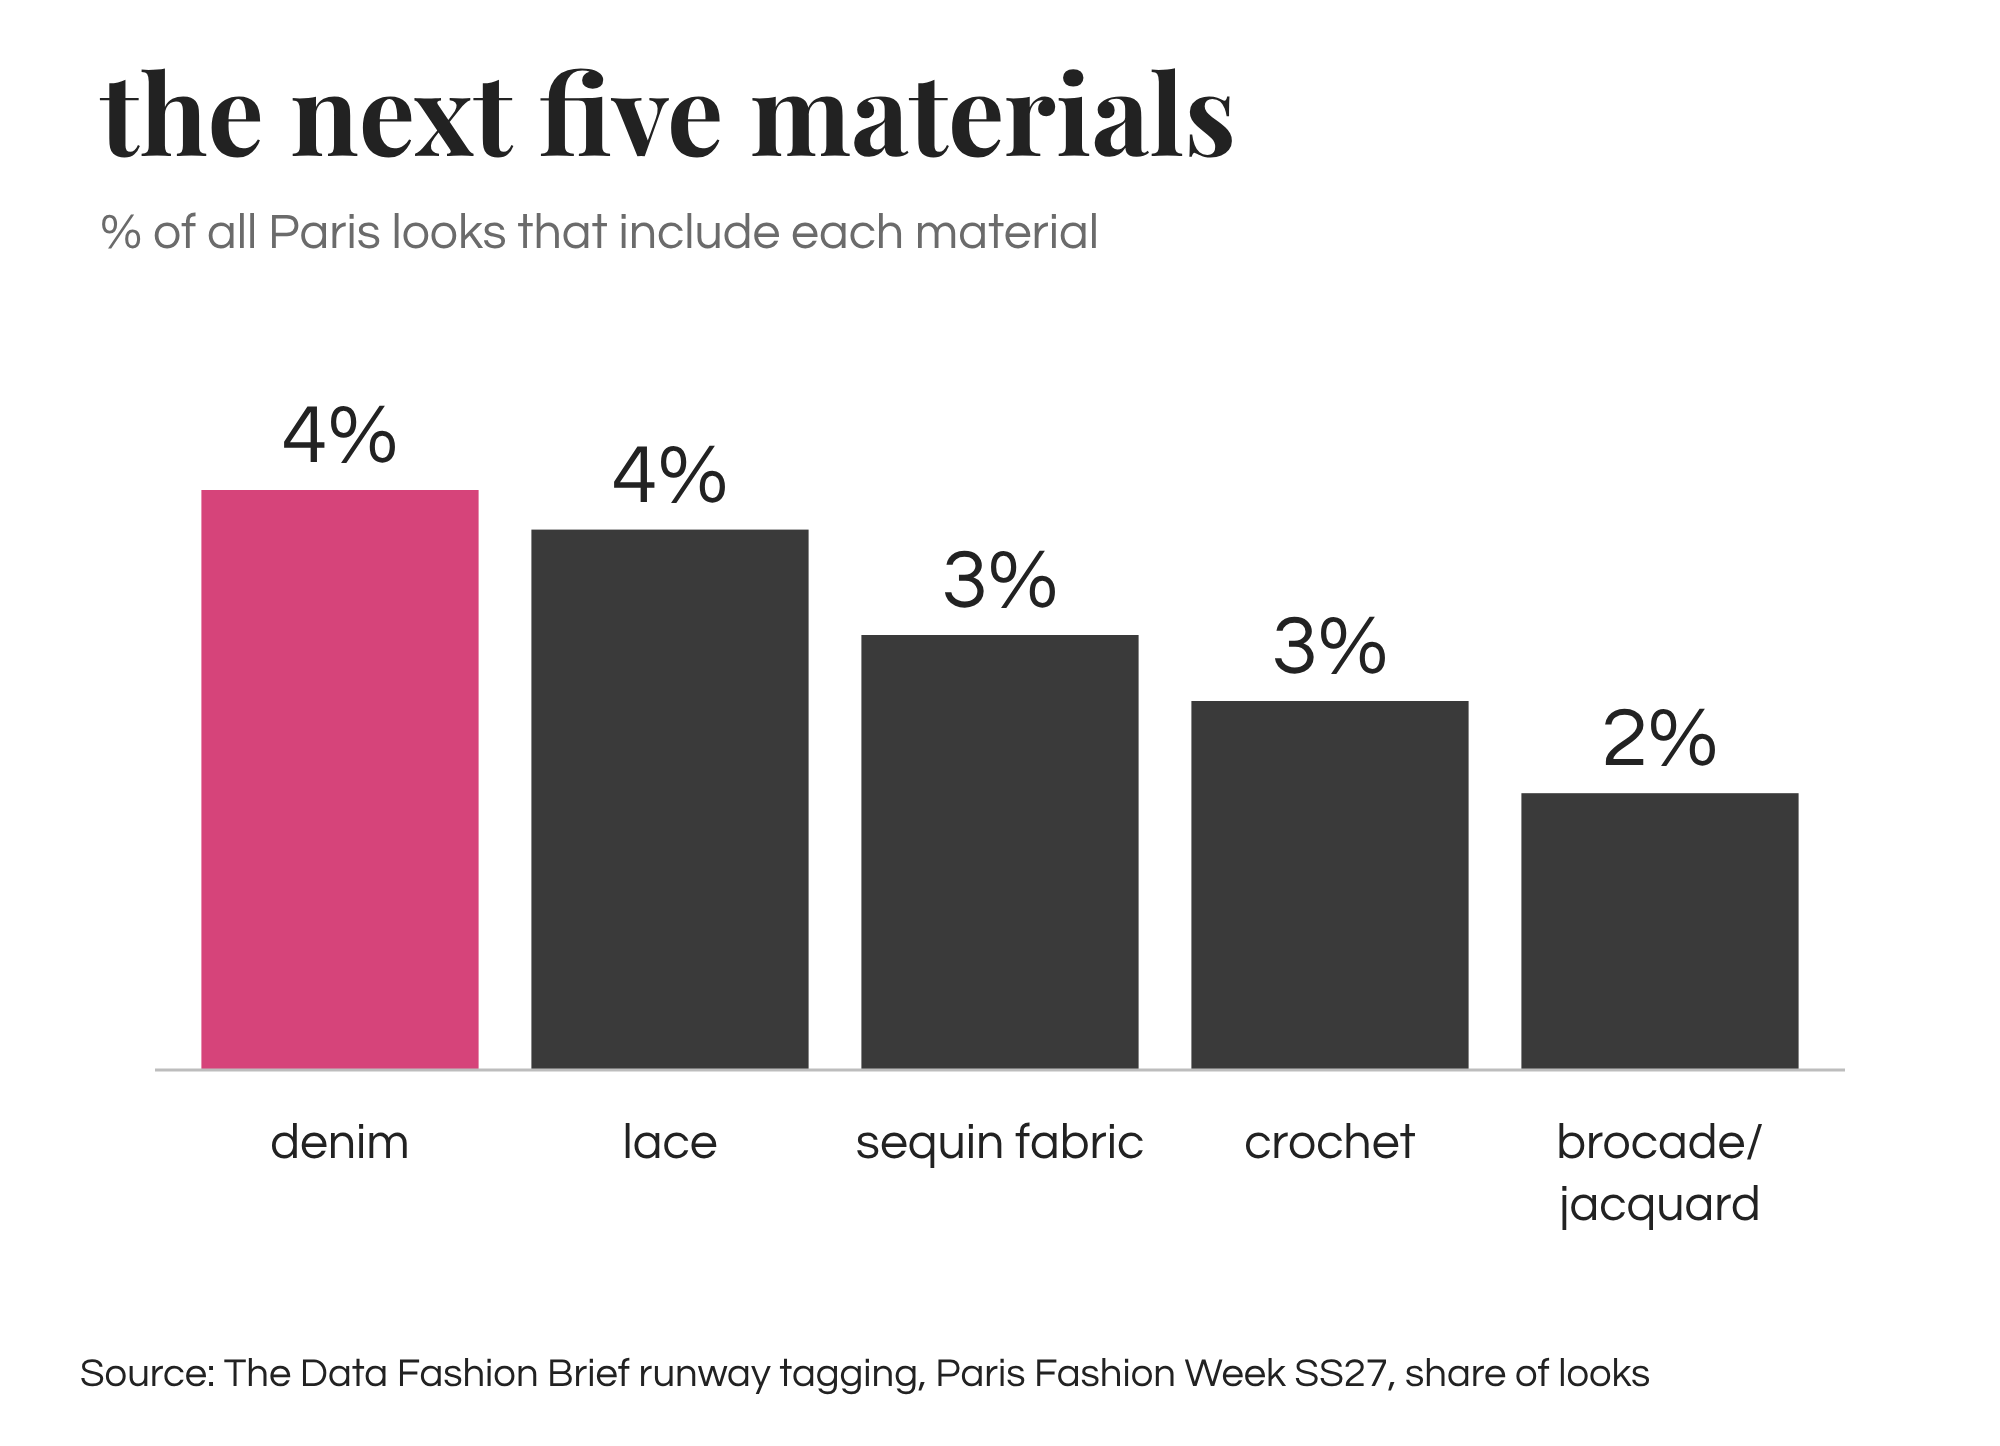
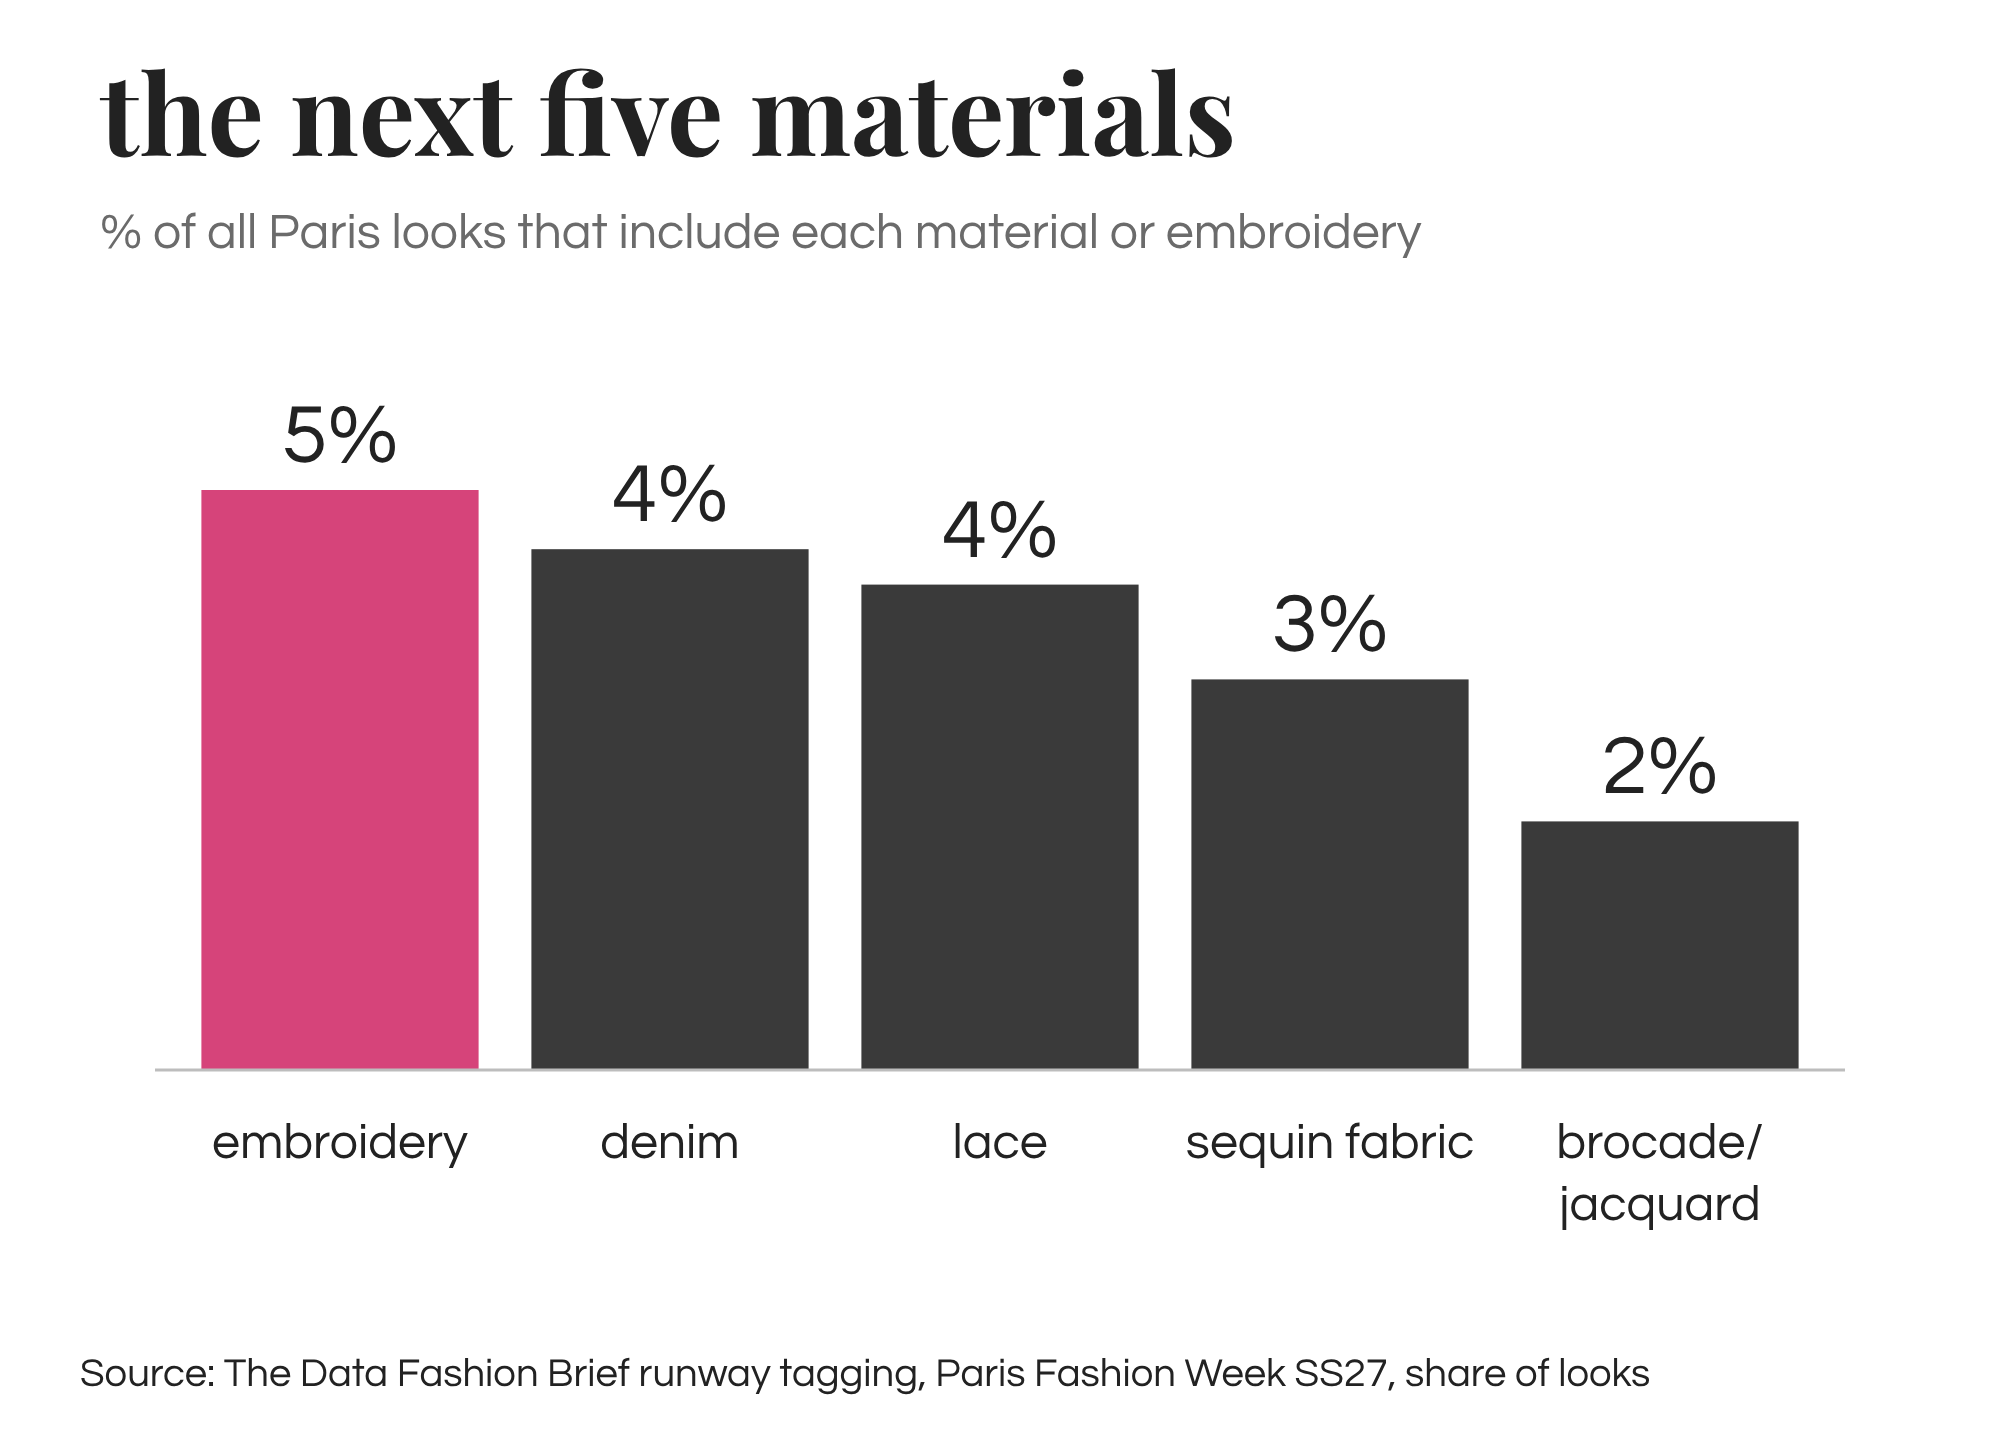
Next five materials chart: embroidery in place of crochet
Claude-Session: https://claude.ai/code/session_017XtVnXiWHeBZX9E24h61HG

diff --git a/drafts/paris-ss27-charts/build_charts.py b/drafts/paris-ss27-charts/build_charts.py
@@ -157,8 +157,11 @@ shps = ranked('silhouette')
 LOOKS = SRC + ', share of looks'
 charts.append(bar_chart('10-top-materials', 'top 10 materials',
     '% of all Paris looks that include each material', [(clean(v), x) for v, x in mats[:10]], LOOKS))
+# Carmen: swap crochet for embroidery (a detail tag, not a material), re-sorted by share
+_next = [(clean(v), x) for v, x in mats[10:15] if v != 'crochet'] + [('embroidery', fw_share('detail', 'embroidery'))]
+_next.sort(key=lambda kv: -kv[1])
 charts.append(bar_chart('11-next-materials', 'the next five materials',
-    '% of all Paris looks that include each material', [(clean(v), x) for v, x in mats[10:15]], LOOKS))
+    '% of all Paris looks that include each material or embroidery', _next, LOOKS))
 charts.append(bar_chart('12-top-garments', 'top 10 pieces',
     '% of all Paris looks that include each piece', [(clean(v), x) for v, x in gars[:10]], LOOKS))
 charts.append(bar_chart('13-next-garments', 'the next five pieces',
